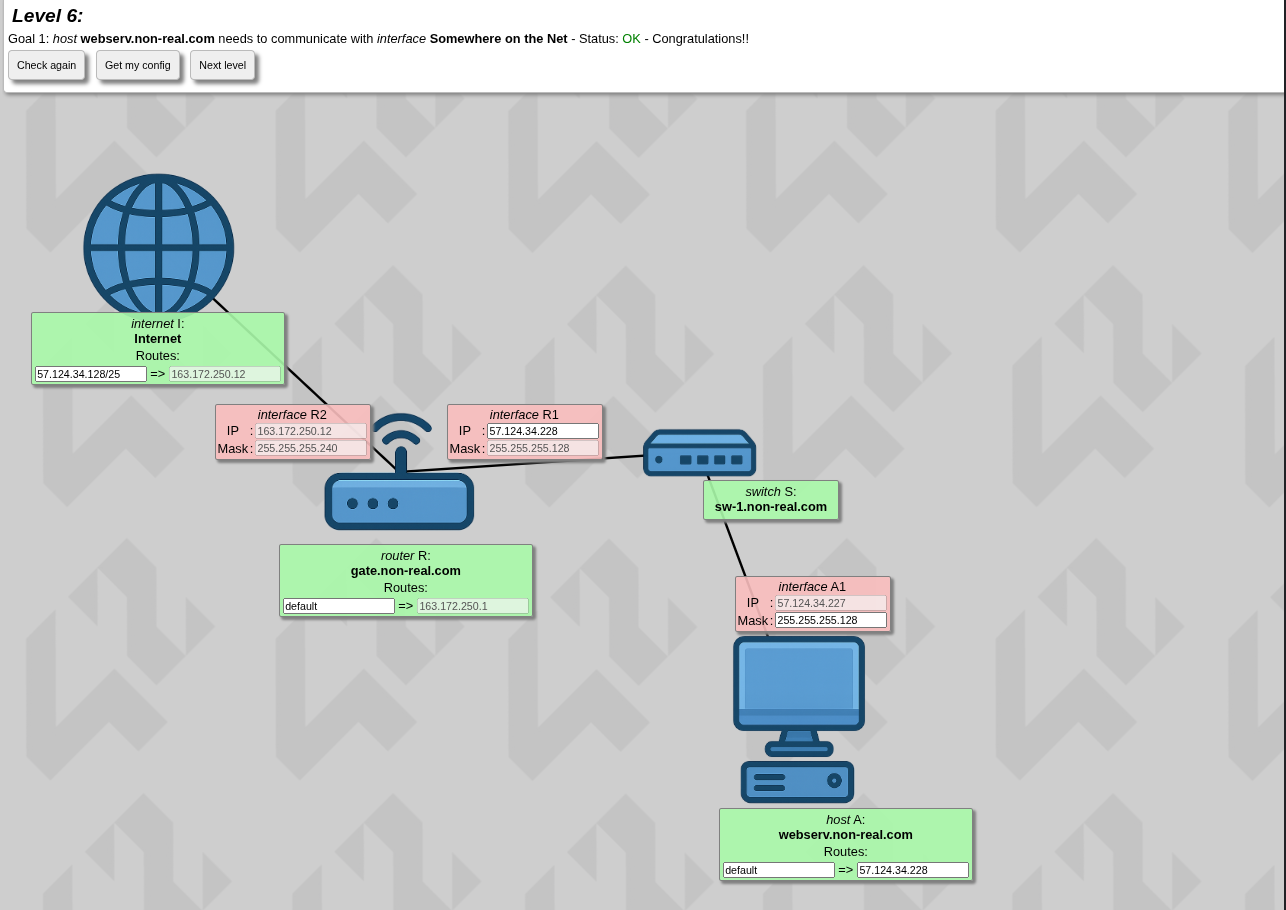
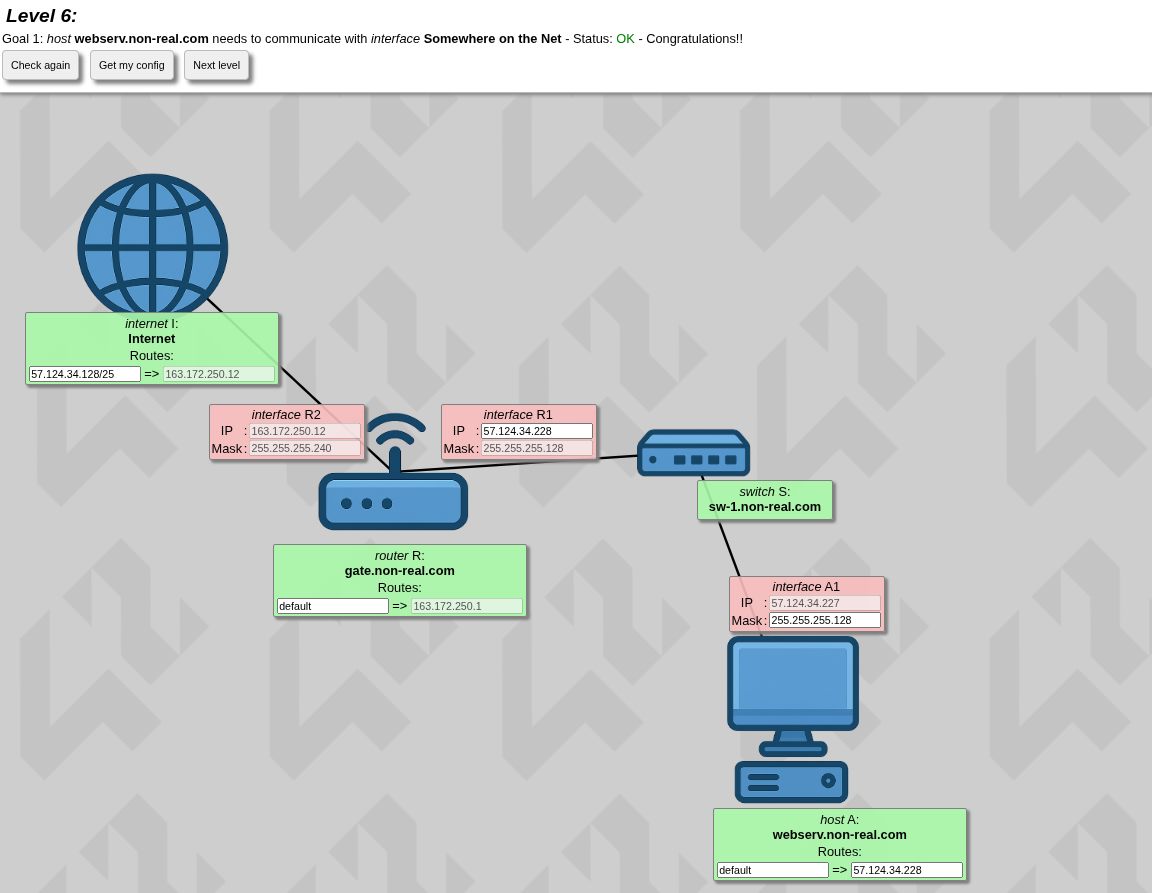
level6

Changed region(s): [[0.0, 0.1814, 0.8438, 0.9978], [0.0, 0.0, 1.0, 0.1209]]

diff --git a/Guide/level6/level6.md b/Guide/level6/level6.md
@@ -1,7 +1,7 @@
 
 ![alt text](image.png)
 
-```markdown
+
 # Level 6
 
 
@@ -55,6 +55,5 @@ As you can see there are 25 bits set to 1, so the mask is **/25**. And that's wh
 **57.124.34.128/25**
 
 As you can see, it's sending data out to **163.172.250.12** which is outside of the house.
-
 
 ![alt text](image-1.png)